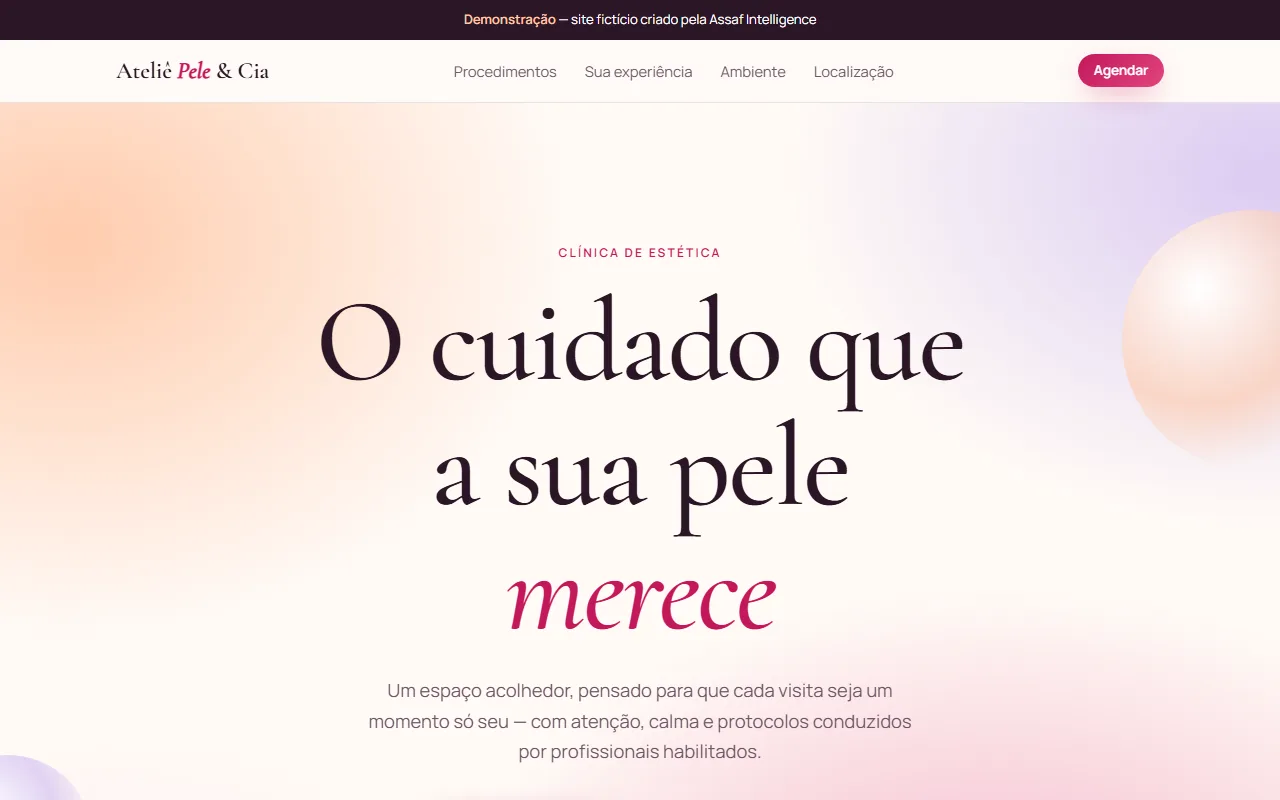
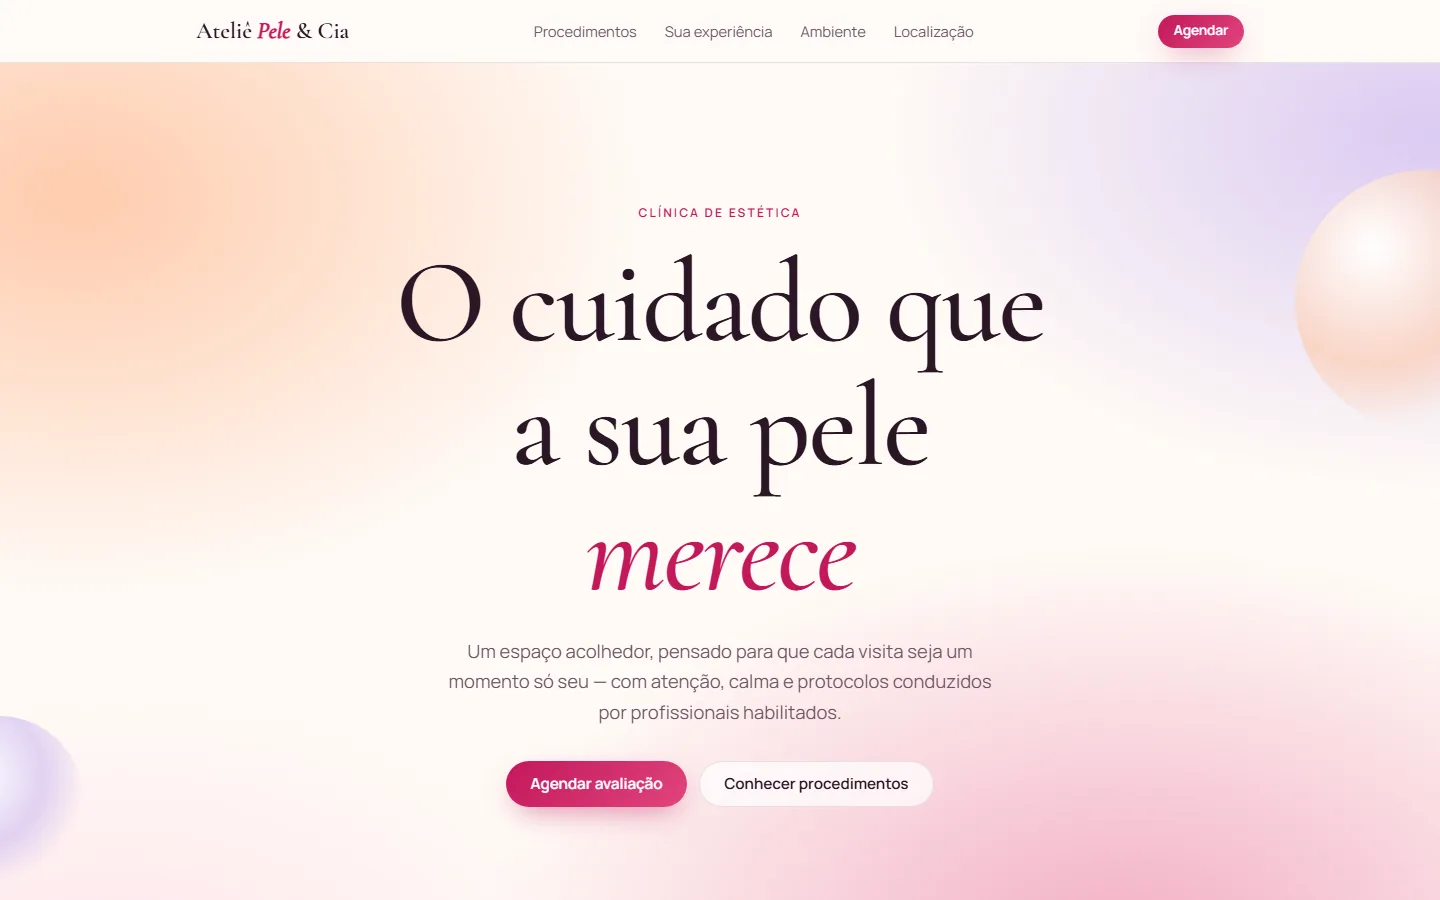
Corrige o carrossel de demos e dá função aos botões das demos
O vidro do carrossel duplicava a faixa de aviso: o desvio da borda foi
reduzido e a faixa saiu das capturas, que agora têm 1440 px (960 no
celular). O carrossel também abre na posição já escolhida. As demos
ganham demo-kit.js com agenda, conversa de WhatsApp simulada, aviso de
mapa, faixa de aviso em uma linha e menu que marca a seção visível. O
formulário da advocacia passa a validar os campos.

diff --git a/public/demos/demo-kit.js b/public/demos/demo-kit.js
@@ -1,0 +1,177 @@
+/* Kit das demonstrações: dá função aos botões de agendar, WhatsApp e mapa,
+   sem enviar nada para fora. Pega cores e fontes do próprio site. */
+(() => {
+  const $ = (s, el = document) => el.querySelector(s)
+  const $$ = (s, el = document) => [...el.querySelectorAll(s)]
+  const nome = (($('header .logo') || {}).textContent || document.title).trim().replace(/\s+/g, ' ')
+
+  // Cor do botão principal do site, para o kit parecer parte dele
+  // Só cor sólida e não clara: botões de vidro ou brancos deixariam o texto ilegível
+  const corSolida = (b) => {
+    const s = getComputedStyle(b)
+    const rgb = (s.backgroundColor + ' ' + s.backgroundImage).match(/rgb\((\d+), (\d+), (\d+)\)/)
+    return rgb && +rgb[1] + +rgb[2] + +rgb[3] < 640 ? rgb[0] : null
+  }
+  const principal = $$('a.btn, button.btn').find(corSolida)
+  const estilo = principal ? getComputedStyle(principal) : null
+  document.documentElement.style.setProperty('--dk-cor', principal ? corSolida(principal) : '#222')
+  document.documentElement.style.setProperty('--dk-tinta', estilo ? estilo.color : '#fff')
+
+  const css = document.createElement('style')
+  css.textContent = `
+  .dk-faixa{white-space:nowrap;overflow:hidden;text-overflow:ellipsis;font-size:.78rem!important;padding-block:7px!important;line-height:1.3!important}
+  .dk-janela{width:min(440px,calc(100vw - 24px));max-height:calc(100dvh - 24px);border:0;border-radius:20px;padding:0;color:#1b1b1f;background:#fff;box-shadow:0 30px 80px -20px rgba(0,0,0,.55);font-family:inherit}
+  .dk-janela::backdrop{background:rgba(10,10,14,.55);backdrop-filter:blur(4px)}
+  .dk-topo{display:flex;align-items:center;justify-content:space-between;gap:12px;padding:18px 20px;border-bottom:1px solid #eee}
+  .dk-topo h2{margin:0;font-size:1.1rem;font-family:inherit;letter-spacing:0;text-transform:none;color:inherit}
+  .dk-fechar{width:36px;height:36px;border-radius:50%;border:1px solid #ddd;background:#fff;font-size:1.2rem;line-height:1;cursor:pointer;color:#333}
+  .dk-corpo{display:grid;gap:14px;padding:18px 20px 20px}
+  .dk-corpo label{display:grid;gap:6px;font-size:.9rem;font-weight:600}
+  .dk-corpo input,.dk-corpo select{min-height:46px;padding:0 12px;border:1px solid #d9d9e0;border-radius:12px;font:inherit;font-size:1rem;background:#fafafb;color:#1b1b1f}
+  .dk-chips{display:flex;flex-wrap:wrap;gap:8px}
+  .dk-chip{min-height:40px;padding:0 14px;border-radius:999px;border:1px solid #d9d9e0;background:#fff;font:inherit;font-size:.9rem;cursor:pointer;color:#1b1b1f}
+  .dk-chip[aria-pressed=true]{background:var(--dk-cor);border-color:var(--dk-cor);color:var(--dk-tinta)}
+  .dk-chip:disabled{opacity:.35;text-decoration:line-through;cursor:not-allowed}
+  .dk-acao{min-height:50px;border:0;border-radius:999px;background:var(--dk-cor);color:var(--dk-tinta);font:inherit;font-weight:700;font-size:1rem;cursor:pointer}
+  .dk-nota{margin:0;font-size:.8rem;color:#6b6b76}
+  .dk-erro{margin:0;color:#c0392b;font-weight:600;font-size:.9rem}
+  .dk-ok{display:grid;gap:10px;text-align:center;padding:12px 4px}
+  .dk-ok b{font-size:1.15rem}
+  .dk-ok i{display:grid;place-items:center;width:56px;height:56px;margin:0 auto;border-radius:50%;background:var(--dk-cor);color:var(--dk-tinta);font-style:normal;font-size:1.6rem}
+  .dk-chat{display:grid;gap:8px;min-height:180px;align-content:end;padding:14px;border-radius:14px;background:#efeae2}
+  .dk-balao{max-width:82%;padding:8px 12px;border-radius:12px;background:#fff;font-size:.93rem;box-shadow:0 1px 1px rgba(0,0,0,.08)}
+  .dk-balao.eu{justify-self:end;background:#d9fdd3}
+  .dk-enviar{display:flex;gap:8px}.dk-enviar input{flex:1}
+  .dk-aviso{position:fixed;left:50%;bottom:24px;z-index:9999;translate:-50% 0;max-width:calc(100vw - 32px);padding:12px 18px;border-radius:14px;background:#1b1b1f;color:#fff;font-size:.92rem;box-shadow:0 12px 30px -10px rgba(0,0,0,.5)}
+  header.dk-rolou{box-shadow:0 10px 30px -18px rgba(0,0,0,.45)}
+  header nav a[aria-current=true]{text-decoration:underline;text-underline-offset:6px;text-decoration-thickness:2px}
+  `
+  document.head.appendChild(css)
+
+  // Faixa de aviso numa linha só
+  const faixa = $('.demo, .demo-banner')
+  if (faixa) {
+    faixa.classList.add('dk-faixa')
+    faixa.innerHTML = `<strong>Demonstração</strong> · site fictício da Assaf Intelligence`
+  }
+
+  function janela(titulo, corpo) {
+    const d = document.createElement('dialog')
+    d.className = 'dk-janela'
+    d.innerHTML = `<div class="dk-topo"><h2>${titulo}</h2><button class="dk-fechar" type="button" aria-label="Fechar">×</button></div><div class="dk-corpo">${corpo}</div>`
+    $('.dk-fechar', d).onclick = () => d.close()
+    d.addEventListener('click', (e) => { if (e.target === d) d.close() })
+    d.addEventListener('close', () => d.remove())
+    document.body.appendChild(d)
+    d.showModal()
+    return d
+  }
+
+  let avisoTimer
+  function avisar(texto) {
+    $('.dk-aviso')?.remove()
+    const a = Object.assign(document.createElement('div'), { className: 'dk-aviso', textContent: texto })
+    a.setAttribute('role', 'status')
+    document.body.appendChild(a)
+    clearTimeout(avisoTimer)
+    avisoTimer = setTimeout(() => a.remove(), 3500)
+  }
+
+  // Serviços lidos da própria página, para a agenda fazer sentido em cada demo
+  const servicos = (() => {
+    const secao = $$('section[id]').find((s) => /servic|tratament|procediment|area|ritual/i.test(s.id))
+    const nomes = secao ? $$('h3', secao).map((h) => h.textContent.trim()).filter(Boolean) : []
+    return nomes.length ? nomes.slice(0, 8) : ['Primeiro atendimento']
+  })()
+
+  function proximosDias() {
+    const dias = []
+    const d = new Date()
+    while (dias.length < 6) {
+      d.setDate(d.getDate() + 1)
+      if (d.getDay() !== 0) dias.push(new Date(d))
+    }
+    return dias
+  }
+  const HORAS = ['09:00', '10:00', '11:00', '14:00', '15:00', '16:00', '17:00']
+  // Alguns horários aparecem ocupados para a agenda parecer real
+  const ocupado = (dia, i) => (dia.getDate() * 7 + i * 3) % 5 === 0
+
+  function abrirAgenda() {
+    const dias = proximosDias()
+    const fmt = (d) => d.toLocaleDateString('pt-BR', { weekday: 'short', day: '2-digit', month: '2-digit' })
+    const d = janela('Agendar horário', `
+      <label>Seu nome<input name="nome" autocomplete="name"></label>
+      <label>Serviço<select name="servico">${servicos.map((s) => `<option>${s}</option>`).join('')}</select></label>
+      <div><b style="font-size:.9rem">Dia</b><div class="dk-chips" data-grupo="dia">${dias.map((x, i) => `<button type="button" class="dk-chip" data-i="${i}" aria-pressed="false">${fmt(x)}</button>`).join('')}</div></div>
+      <div><b style="font-size:.9rem">Horário</b><div class="dk-chips" data-grupo="hora"><span class="dk-nota">Escolha um dia primeiro.</span></div></div>
+      <p class="dk-erro" role="alert" hidden></p>
+      <button type="button" class="dk-acao">Confirmar agendamento</button>
+      <p class="dk-nota">Demonstração: nenhum dado é enviado.</p>`)
+    let dia = null
+    let hora = null
+    const grupoHora = $('[data-grupo=hora]', d)
+    const marcar = (grupo, botao) => $$('.dk-chip', grupo).forEach((b) => b.setAttribute('aria-pressed', String(b === botao)))
+    $$('[data-grupo=dia] .dk-chip', d).forEach((b) => b.onclick = () => {
+      dia = dias[b.dataset.i]
+      hora = null
+      marcar(b.parentNode, b)
+      grupoHora.innerHTML = HORAS.map((h, i) => `<button type="button" class="dk-chip" ${ocupado(dia, i) ? 'disabled' : ''} aria-pressed="false">${h}</button>`).join('')
+      $$('.dk-chip', grupoHora).forEach((h) => h.onclick = () => { hora = h.textContent; marcar(grupoHora, h) })
+    })
+    $('.dk-acao', d).onclick = () => {
+      const erro = $('.dk-erro', d)
+      const quem = $('[name=nome]', d).value.trim()
+      const falta = !quem ? 'Escreva seu nome.' : !dia ? 'Escolha um dia.' : !hora ? 'Escolha um horário.' : ''
+      erro.textContent = falta
+      erro.hidden = !falta
+      if (falta) return
+      $('.dk-corpo', d).innerHTML = `<div class="dk-ok"><i>✓</i><b>Horário reservado, ${quem.split(' ')[0]}!</b>
+        <span>${$('[name=servico]', d)?.value || servicos[0]} em ${fmt(dia)}, às ${hora}.</span>
+        <p class="dk-nota">No site real, você recebe a confirmação pelo WhatsApp.</p>
+        <button type="button" class="dk-acao">Fechar</button></div>`
+      $('.dk-ok .dk-acao', d).onclick = () => d.close()
+    }
+  }
+
+  function abrirConversa() {
+    const d = janela(nome, `
+      <div class="dk-chat" aria-live="polite"><div class="dk-balao">Olá! Bem-vindo(a) à ${nome}. Como podemos ajudar?</div></div>
+      <form class="dk-enviar"><input value="Olá! Vim pelo site e quero mais informações." aria-label="Mensagem"><button class="dk-acao" style="padding:0 18px">Enviar</button></form>
+      <p class="dk-nota">Simulação: no site real, este botão abre o WhatsApp do negócio.</p>`)
+    const chat = $('.dk-chat', d)
+    const balao = (texto, eu) => chat.appendChild(Object.assign(document.createElement('div'), { className: eu ? 'dk-balao eu' : 'dk-balao', textContent: texto }))
+    $('form', d).onsubmit = (e) => {
+      e.preventDefault()
+      const campo = $('input', d)
+      if (!campo.value.trim()) return
+      balao(campo.value.trim(), true)
+      campo.value = ''
+      setTimeout(() => balao('Recebemos sua mensagem! Respondemos em poucos minutos no horário de atendimento.'), 900)
+    }
+  }
+
+  // Botões sem destino ganham função pelo que dizem
+  $$('a[href="#"]').forEach((a) => {
+    const texto = a.textContent.toLowerCase()
+    a.addEventListener('click', (e) => {
+      e.preventDefault()
+      if (/whats|mensagem/.test(texto)) abrirConversa()
+      else if (/mapa|chegar/.test(texto)) avisar('No site real, este botão abre o endereço no Google Maps.')
+      else abrirAgenda()
+    })
+  })
+
+  // Cabeçalho ganha sombra ao rolar e o menu marca a seção visível
+  const topo = $('header')
+  const aoRolar = () => topo?.classList.toggle('dk-rolou', scrollY > 8)
+  addEventListener('scroll', aoRolar, { passive: true })
+  aoRolar()
+
+  const links = $$('header nav a[href^="#"]')
+  const alvos = links.map((a) => document.getElementById(a.getAttribute('href').slice(1))).filter(Boolean)
+  const secaoAtual = new IntersectionObserver((itens) => itens.forEach((i) => {
+    if (i.isIntersecting) links.forEach((a) => a.setAttribute('aria-current', String(a.getAttribute('href') === '#' + i.target.id)))
+  }), { rootMargin: '-45% 0px -50% 0px' })
+  alvos.forEach((s) => secaoAtual.observe(s))
+})()

diff --git a/src/components/Trabalhos.jsx b/src/components/Trabalhos.jsx
@@ -11,6 +11,7 @@ export function Trabalhos() {
   const dialogo = useRef(null)
   const toque = useRef(null)
   const [posicao, setPosicao] = useState(0)
+  const posicaoAtual = useRef(0)
   const [semGl, setSemGl] = useState(false)
   const [aberto, setAberto] = useState(false)
   const demo = DEMOS[((posicao % N) + N) % N]
@@ -22,7 +23,7 @@ export function Trabalhos() {
       if (!e.isIntersecting) return
       espera.disconnect()
       import('../gl/vidro.js')
-        .then(({ criarVidro }) => criarVidro({ canvas: canvas.current, ids: DEMOS.map((d) => d.id), indice: 0 }))
+        .then(({ criarVidro }) => criarVidro({ canvas: canvas.current, ids: DEMOS.map((d) => d.id), indice: posicaoAtual.current }))
         .then((v) => { if (cancelado) v.destruir(); else vidro.current = v })
         .catch(() => setSemGl(true))
     }, { rootMargin: '600px' })
@@ -35,6 +36,7 @@ export function Trabalhos() {
   }, [])
 
   const ir = (p) => {
+    posicaoAtual.current = p
     setPosicao(p)
     vidro.current?.irPara(p)
   }

diff --git a/src/gl/vidro.js b/src/gl/vidro.js
@@ -1,8 +1,9 @@
 import * as THREE from 'three'
 import { criarPalco } from './stage.js'
 
-const LARGURA = 1024
-const ALTURA = 640
+// Celular recebe imagens menores para poupar memória de vídeo
+const LARGURA = window.innerWidth > 900 ? 1440 : 960
+const ALTURA = LARGURA * 0.625
 
 const FRAGMENT = /* glsl */ `
 precision highp float;
@@ -49,7 +50,8 @@ void main() {
       caixa(p + e.yx, lente, RAIO + 10.0) - caixa(p - e.yx, lente, RAIO + 10.0)) + 1e-5);
     float aro = min(34.0, uCartao.x * 0.06);
     float curva = pow(smoothstep(-aro, 0.0, d), 2.5);
-    vec2 desvio = -n * curva * aro * 1.35;
+    // Abaixo de 0.45 a imagem só comprime na borda; acima disso dobra e duplica textos finos
+    vec2 desvio = -n * curva * aro * 0.42;
     cor = vec3(fita(p + desvio * 1.14).r, fita(p + desvio).g, fita(p + desvio * 0.86).b);
     float brilho = smoothstep(-2.5, -0.5, d) * (0.3 + 0.5 * max(dot(n, normalize(vec2(-0.5, 0.8))), 0.0));
     cor += vec3(0.85, 0.85, 1.0) * brilho + vec3(0.31, 0.275, 0.898) * curva * 0.06;

diff --git a/public/demos/advocacia.html b/public/demos/advocacia.html
@@ -309,10 +309,12 @@ if(!CSS.supports('animation-timeline: view()') && 'IntersectionObserver' in wind
 } else document.querySelectorAll('.reveal').forEach(el=>el.classList.add('in'));
 document.getElementById('form').addEventListener('submit',e=>{
   e.preventDefault();
-  const m=document.getElementById('msg');
-  m.textContent='Demonstração: nenhum dado foi enviado';
+  const m=document.getElementById('msg'), f=e.target, falta=[...f.querySelectorAll('[required]')].find(c=>!c.value.trim());
+  if(falta){m.textContent='Preencha o campo "'+f.querySelector('label[for="'+falta.id+'"]').textContent+'".';m.classList.add('show');falta.focus();return}
+  m.textContent='Recebemos seu pedido, '+f.nome.value.trim().split(' ')[0]+'. Retornamos em até 1 dia útil. (Demonstração: nada foi enviado.)';
   m.classList.add('show');
 });
 </script>
+<script src="demo-kit.js" defer></script>
 </body>
 </html>

diff --git a/public/demos/loja.html b/public/demos/loja.html
@@ -398,5 +398,6 @@ if (!CSS.supports('animation-timeline: view()') && 'IntersectionObserver' in win
   document.querySelectorAll('.reveal').forEach(el => { el.classList.add('io'); io.observe(el); });
 }
 </script>
+<script src="demo-kit.js" defer></script>
 </body>
 </html>

diff --git a/public/demos/barbearia.html b/public/demos/barbearia.html
@@ -322,5 +322,6 @@ if (!(window.CSS && CSS.supports('animation-timeline: view()')) && 'Intersection
   document.querySelectorAll('.rv').forEach(el => el.classList.add('in'));
 }
 </script>
+<script src="demo-kit.js" defer></script>
 </body>
 </html>

diff --git a/public/demos/estetica.html b/public/demos/estetica.html
@@ -347,5 +347,6 @@ footer .logo{font-size:1.25rem;color:var(--ink)}
   document.querySelectorAll('.rv').forEach(function(el){ io.observe(el); });
 })();
 </script>
+<script src="demo-kit.js" defer></script>
 </body>
 </html>

diff --git a/public/demos/odonto.html b/public/demos/odonto.html
@@ -436,5 +436,6 @@ footer .note{border-top:1px solid rgba(201,244,227,.16);padding-top:20px;color:#
   });
 })();
 </script>
+<script src="demo-kit.js" defer></script>
 </body>
 </html>

diff --git a/scripts/shots.py b/scripts/shots.py
@@ -11,8 +11,9 @@ for demo in ["odonto", "barbearia", "estetica", "advocacia", "loja"]:
     with tempfile.TemporaryDirectory() as tmp:
         png = pathlib.Path(tmp) / "shot.png"
         subprocess.run([EDGE, "--headless=new", "--disable-gpu", "--hide-scrollbars",
-                        f"--user-data-dir={tmp}/perfil", "--window-size=1280,800",
+                        f"--user-data-dir={tmp}/perfil", "--window-size=1440,930",
                         "--virtual-time-budget=4000", f"--screenshot={png}",
                         (raiz / "public" / "demos" / f"{demo}.html").as_uri()],
                        check=True, timeout=60, capture_output=True)
-        Image.open(png).convert("RGB").save(saida / f"{demo}.webp", quality=82)
+        # Corta a faixa de aviso: na borda do vidro ela fica ilegível, e a seção já avisa que são demos
+        Image.open(png).convert("RGB").crop((0, 30, 1440, 930)).save(saida / f"{demo}.webp", quality=82)
